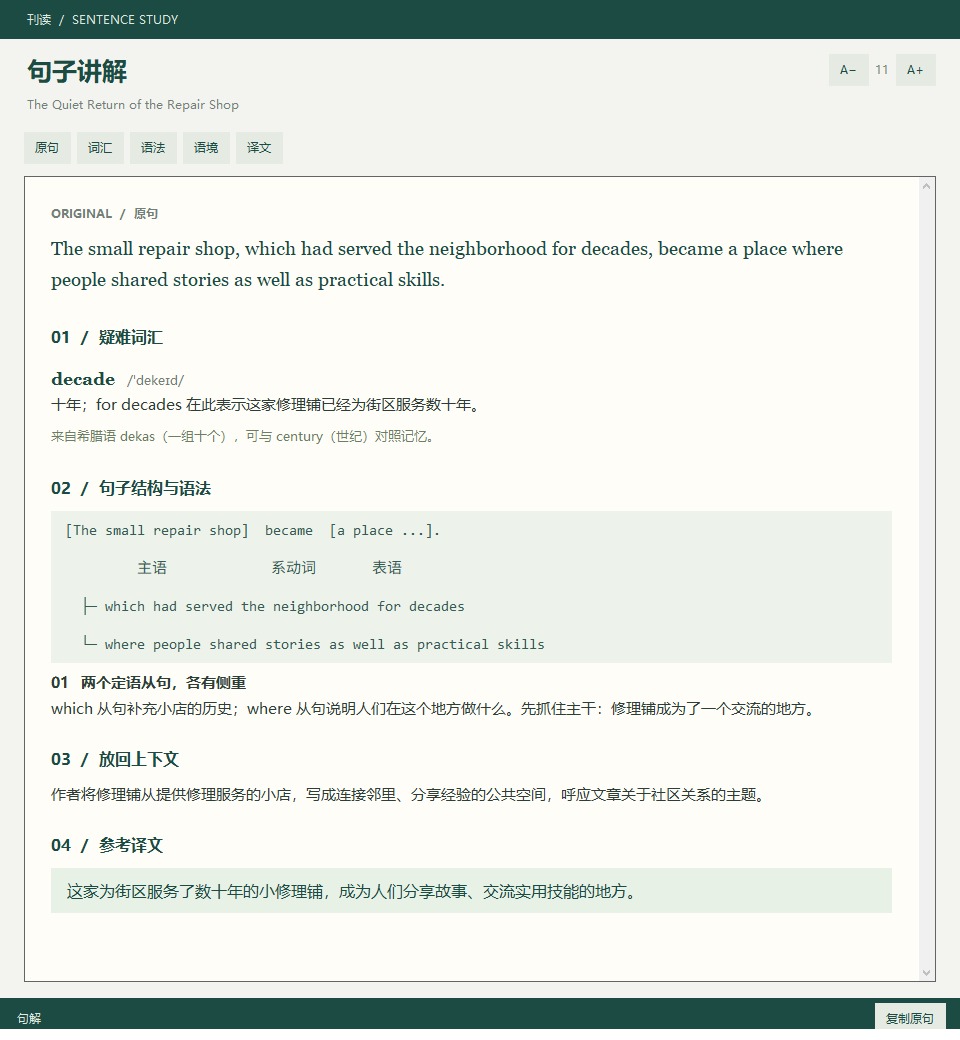
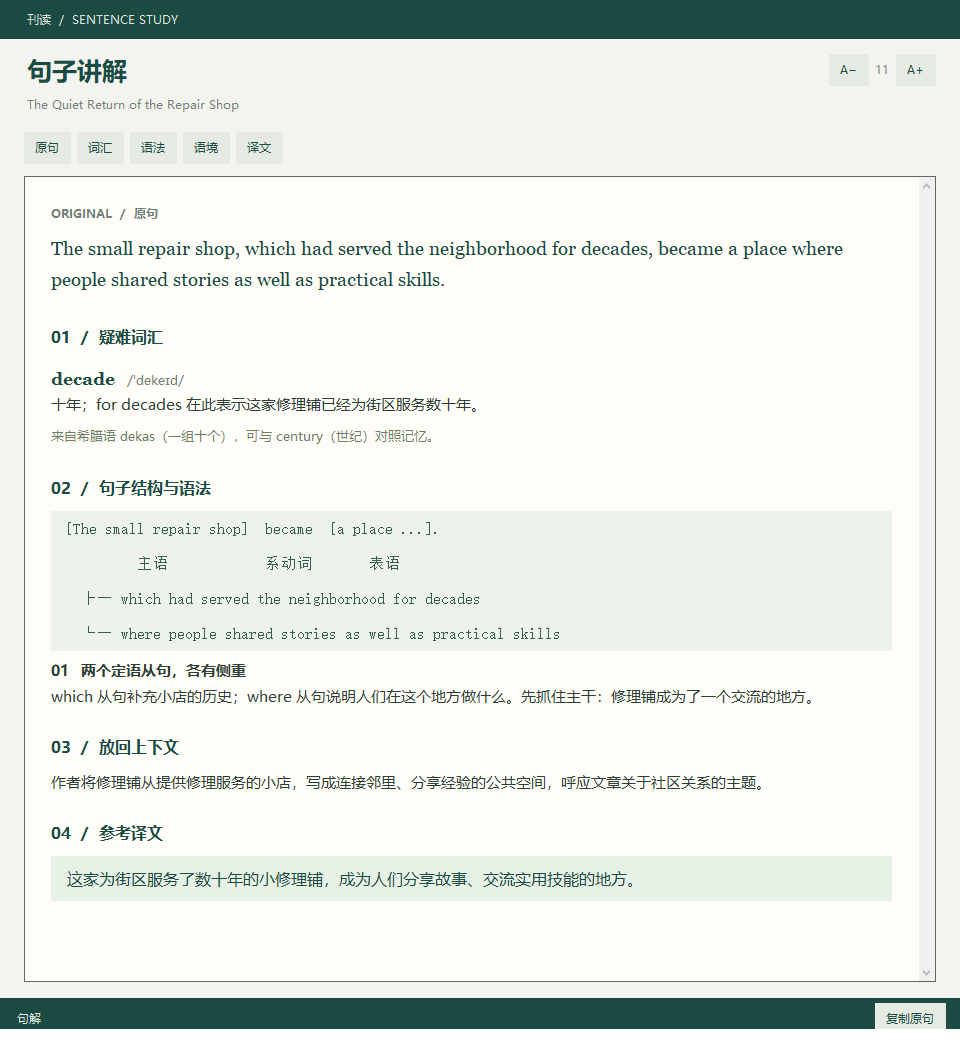
fix: 保留语法图解缩进并修复中英文成分标注对齐

Changed region(s): [[0.0312, 0.4923, 0.8125, 0.8615], [0.75, 0.6462, 0.8438, 0.7077]]

diff --git a/tests/run_tests.py b/tests/run_tests.py
@@ -743,6 +743,46 @@ def test_analysis_reading_layout():
         root.destroy()
 
 
+@case("语法图解缩进、中英文列对齐与字号缩放")
+def test_analysis_diagram_alignment():
+    import tkinter as tk
+    from types import SimpleNamespace
+    from kandu.ui_analysis import make_sheet, render_analysis, _styles
+
+    root = tk.Tk()
+    root.withdraw()
+    app = SimpleNamespace(settings={"sheetFontSize": 11}, save_settings=lambda: None)
+    # 中文占两个英文列；第一行缩进和中文标签之间的空格都参与定位。
+    diagram = "    [We]    [read]    [books]\n    主语    谓语      宾语\n"
+    tabbed = "    [We]\t[read]\t[books]\n    主语\t谓语\t宾语\n"
+    try:
+        win, txt, _ = make_sheet(root, app, "Alignment regression")
+        win.geometry("960x860")
+        for original in (diagram, tabbed):
+            render_analysis(txt, {"grammarDiagram": original}, "We read books.")
+            root.update()
+            start, end = txt.tag_ranges("diagram")
+            assert txt.get(start, end) == original, "图解的原始缩进、空格与换行不能被修改"
+            first_line = int(str(start).split(".")[0])
+            english, chinese = original.splitlines()
+            for size in range(9, 23):
+                _styles(txt, size)
+                txt.yview(start)
+                txt.xview_moveto(0)
+                root.update()
+                for word, label in (("[We]", "主语"), ("[read]", "谓语"), ("[books]", "宾语")):
+                    upper = txt.bbox(f"{first_line}.{english.index(word)}")
+                    lower = txt.bbox(f"{first_line + 1}.{chinese.index(label)}")
+                    assert upper is not None and lower is not None
+                    assert abs(upper[0] - lower[0]) <= 1, f"{size} 号 {word}/{label} 错位：{upper[0]} vs {lower[0]}"
+        # 缓存中双重转义的换行同样支持，且不删除首行缩进。
+        render_analysis(txt, {"grammarDiagram": diagram.rstrip("\n").replace("\n", "\\n")})
+        start, end = txt.tag_ranges("diagram")
+        assert txt.get(start, end) == diagram
+    finally:
+        root.destroy()
+
+
 @case("JSON 修补")
 def test_repair():
     broken = '{"paragraphs":[{"index":1,"startWords":"He had","entries":[{"word":"patent","sense":"专利"},{"word":"sensor",'

diff --git a/kandu/ui_analysis.py b/kandu/ui_analysis.py
@@ -1,6 +1,6 @@
 """句子讲解窗口：原句、词汇、语法、语境与译文的阅读排版。"""
 import tkinter as tk
-from tkinter import ttk
+from tkinter import font as tkfont, ttk
 
 FAMILY = "Microsoft YaHei UI"
 GREEN = "#1b4b43"
@@ -25,9 +25,12 @@ def _styles(txt, size):
     txt.tag_configure("note", foreground="#6c7e64", font=(FAMILY, max(9, size - 1)), spacing3=12)
     txt.tag_configure("point", font=(FAMILY, size, "bold"), foreground=INK,
                       spacing1=10, spacing3=4)
-    txt.tag_configure("diagram", font=("Consolas", size), foreground="#365c54",
+    # Consolas 回退中文时，汉字宽度并非英文的两倍；新宋体保持严格的 2:1 列宽。
+    diagram_font = tkfont.Font(root=txt, family="NSimSun", size=size)
+    txt.tag_configure("diagram", font=("NSimSun", size), foreground="#365c54",
                       background="#edf2eb", lmargin1=14, lmargin2=14, rmargin=14,
-                      spacing1=10, spacing2=6, spacing3=10, wrap="none")
+                      spacing1=10, spacing2=6, spacing3=10, wrap="none",
+                      tabs=(diagram_font.measure(" ") * 8,), tabstyle="wordprocessor")
     txt.tag_configure("translation", font=(FAMILY, size + 1), foreground=GREEN,
                       background="#e8f1e6", lmargin1=16, lmargin2=16, rmargin=16,
                       spacing1=12, spacing2=8, spacing3=12)
@@ -187,7 +190,9 @@ def render_analysis(txt, analysis, sentence=None):
     if analysis.get("grammarDiagram") or analysis.get("grammarPoints"):
         _section(txt, "grammar", "02  /  句子结构与语法")
         if analysis.get("grammarDiagram"):
-            txt.insert("end", analysis["grammarDiagram"].replace("\\n", "\n").strip() + "\n", "diagram")
+            # 缩进也是图解布局的一部分，不能用 strip() 删除第一行的空格。
+            diagram = analysis["grammarDiagram"].replace("\\n", "\n")
+            txt.insert("end", diagram if diagram.endswith("\n") else diagram + "\n", "diagram")
         for i, point in enumerate(analysis.get("grammarPoints") or [], 1):
             txt.insert("end", f"{i:02d}   {point.get('title', '')}\n", "point")
             if point.get("text"):

diff --git a/kandu/__init__.py b/kandu/__init__.py
@@ -1,3 +1,3 @@
 """刊读 · Kandu Desktop"""
 
-__version__ = "0.8.4"
+__version__ = "0.8.5"

diff --git a/README.md b/README.md
@@ -64,6 +64,9 @@
 
 数据目录：`%LOCALAPPDATA%\KanduDesktop`（settings.json / books.json / vocab / covers / cache / article_states）
 
+v0.8.5 修复句子语法图解的成分标注错位：保留首行缩进和原始空格，使用中文宽度严格为英文两倍的等宽字体，
+制表符按图解字号设置定位；已有缓存直接应用修复，无需重新请求模型。
+
 v0.8.4 重新设计句子讲解窗口：暖白阅读页、英文原句衬线排版、分区导航、独立音标样式、
 语法图解底色与译文强调色；生成进度固定在底部。可快速跳转原句 / 词汇 / 语法 / 语境 / 译文，
 保留文本选择、复制、字号调整与滚动；过宽的语法图解可横向滚动查看。
